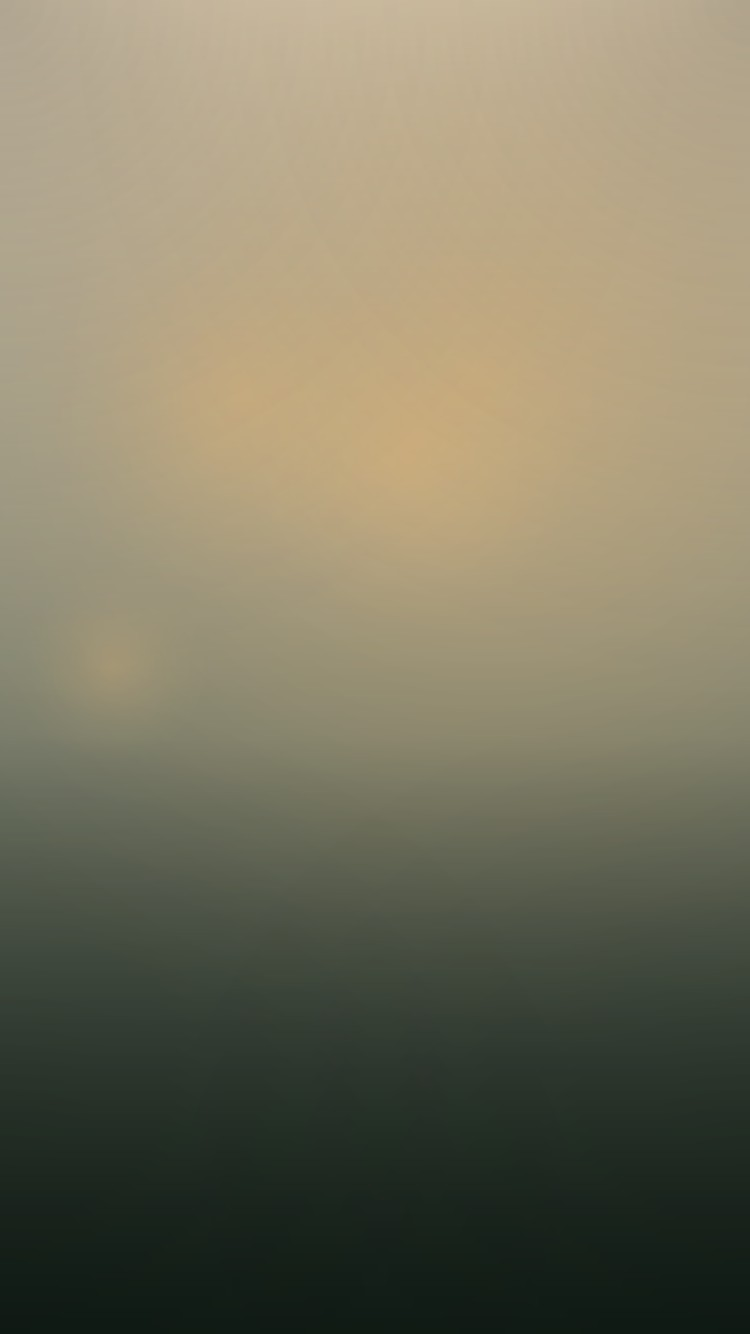
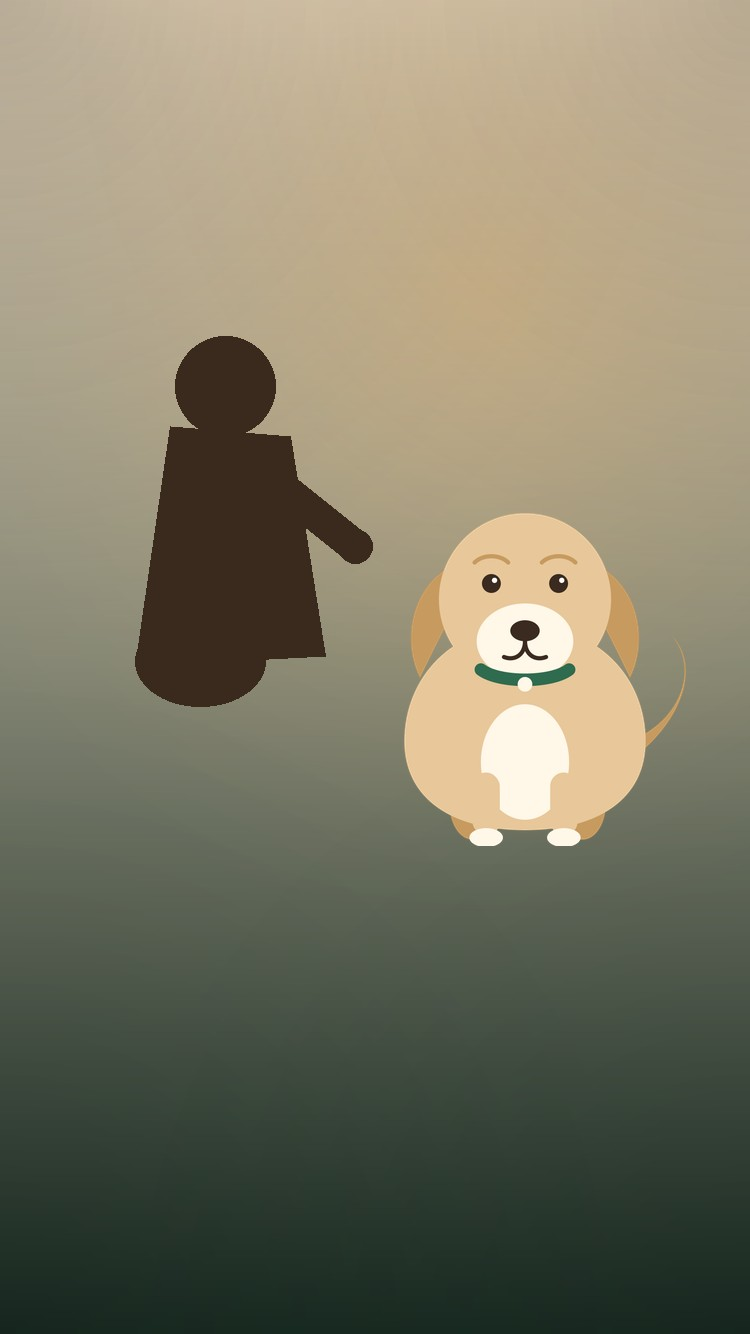
feat(mobile): add KINRO dog imagery

Changed region(s): [[0.5213, 0.3688, 0.8893, 0.6454], [0.1227, 0.2459, 0.4907, 0.5532]]

diff --git a/mobile/src/components/DogPhoto.tsx b/mobile/src/components/DogPhoto.tsx
@@ -8,58 +8,108 @@ import {
   type ViewStyle,
 } from "react-native";
 import { Skeleton } from "@/components/Skeleton";
+import { getDemoPhotoForKey } from "@/lib/demo-photos";
 import { colors } from "@/theme/tokens";
 
-// Bundled fallback cover — used whenever a dog has no uploaded photo, or
-// a real photo URL fails to load. Currently stylized warm placeholder
-// artwork rather than a real photo (see assets/images/README.md for the
-// swap-in path); resolved via require() so Metro bundles it locally and
-// nothing here depends on network access.
-const PLACEHOLDER_PHOTO = require("../../assets/images/dog-cover-placeholder.jpg");
+// Final fallback cover — used only when there's no real photo AND no
+// demoKey to deterministically pick a demo photo from (e.g. a brand-new
+// "Add Dog" preview slot before the dog even has a slug yet). A
+// recognizable illustrated dog, same as the demo-dogs set (see
+// assets/images/README.md) — resolved via require() so Metro bundles it
+// locally and nothing here depends on network access.
+const GENERIC_PLACEHOLDER = require("../../assets/images/dog-cover-placeholder.jpg");
+
+/**
+ * A photo url is only ever worth attempting to load if it's an absolute
+ * http(s) URL — which is exactly what the backend's publicUrlFor() always
+ * produces (see src/lib/storage.ts) when correctly configured. Guards
+ * against a misconfigured R2_PUBLIC_HOSTNAME (unset in Render's
+ * dashboard) producing a malformed url like "https:///dogs/..." — some
+ * platforms never fire an Image's onError for a URI that broken, which
+ * would otherwise leave this component stuck silently rendering nothing
+ * instead of falling back. Checking up front means the fallback doesn't
+ * depend on that callback firing at all — this is deliberate, not just
+ * relying on onError (see Phase 6 of the image-implementation notes).
+ */
+function isLoadableUri(uri: string): boolean {
+  return /^https?:\/\/.+/.test(uri);
+}
 
 /**
  * Single source of truth for "a dog's photo, or a graceful stand-in" —
  * used anywhere a dog's cover photo appears (Discover cards, My Dog
- * cards, Dog Detail hero). Handles the loading/error cases: a pulsing
- * skeleton while a real photo is downloading, and a fallback to the
- * same bundled placeholder image if that download ever fails — not just
- * when the URL is absent to begin with. Both the real photo and the
- * placeholder render through the same <Image resizeMode="cover">
- * treatment, so rounded corners (set by the caller via `style` +
- * `overflow: hidden`) apply consistently either way.
+ * cards, Dog Detail hero, owner profile previews). Photo priority:
+ *
+ *   1. A real uploaded photo (`uri`), if present and safely loadable.
+ *   2. A bundled, recognizable illustrated demo dog, deterministically
+ *      chosen from `demoKey` (pass the dog's `slug` — stable for that
+ *      dog's whole lifetime, present on both OwnedDogProfileItem and the
+ *      public DogProfileItem) — the same dog always shows the same demo
+ *      photo, every time, with no storage needed for that assignment.
+ *   3. A single generic illustrated placeholder, only when neither of
+ *      the above applies at all (no uri AND no demoKey).
+ *
+ * This ordering (and rendering the fallback synchronously whenever
+ * `uri` is absent or fails validation, rather than waiting on a load
+ * attempt) is what makes tiers 2/3 render immediately for guests
+ * browsing demo dogs — no login, no R2, no network round trip, and no
+ * dependence on a remote image ever actually erroring out.
+ *
+ * Handles the loading/error cases throughout: a pulsing skeleton while a
+ * real photo is downloading, and a fallback to tier 2/3 if that download
+ * ever fails or the url is malformed. Every tier renders through the
+ * same <Image resizeMode="cover"> treatment, so rounded corners (set by
+ * the caller via `style` + `overflow: hidden`) apply consistently, and
+ * every tier gives the Image a non-zero size because `style` always
+ * comes from the caller's own fixed-dimension layout (see PublicDogCard,
+ * DogCard, and the Dog Detail heroes for the actual width/height).
  */
 export function DogPhoto({
   uri,
+  demoKey,
   style,
   emptyLabel,
 }: {
   uri: string | null | undefined;
+  /** Stable per-dog key (pass the dog's `slug`) used to deterministically pick a bundled demo photo when there's no real uri. Omit only when no such key exists yet. */
+  demoKey?: string;
   style?: StyleProp<ViewStyle>;
-  /** Small caption chip shown over the placeholder image, e.g. "No photo yet". Omit for a bare placeholder (used in dense card grids). */
+  /** Small caption chip shown over the fallback image, e.g. "No photo yet". Omit for a bare fallback (used in dense card grids, and always omitted for public Discover cards). */
   emptyLabel?: string;
 }) {
+  const canAttemptLoad = !!uri && isLoadableUri(uri);
   const [status, setStatus] = useState<"loading" | "loaded" | "error">(
-    uri ? "loading" : "error",
+    canAttemptLoad ? "loading" : "error",
   );
 
-  const showPlaceholder = !uri || status === "error";
+  const showFallback = !canAttemptLoad || status === "error";
+  const fallbackSource = demoKey
+    ? getDemoPhotoForKey(demoKey)
+    : GENERIC_PLACEHOLDER;
 
   return (
     <View style={style}>
       <Image
-        source={showPlaceholder ? PLACEHOLDER_PHOTO : { uri: uri as string }}
+        source={showFallback ? fallbackSource : { uri: uri as string }}
+        // iOS shows this immediately while the real photo above is still
+        // downloading, so there's never a blank frame during the network
+        // fetch (Android ignores defaultSource; the Skeleton below covers
+        // that case instead). Harmless — and never shown at all — in the
+        // showFallback branch, since source and defaultSource are then
+        // the same image.
+        defaultSource={fallbackSource}
         style={StyleSheet.absoluteFill}
         resizeMode="cover"
         onLoadEnd={() => setStatus("loaded")}
         onError={() => setStatus("error")}
       />
-      {!showPlaceholder && status === "loading" ? (
+      {!showFallback && status === "loading" ? (
         // height is irrelevant here — absoluteFill's inset-0 positioning
         // stretches this to match the Image regardless of Skeleton's own
         // (number-only) height prop.
         <Skeleton height={1} borderRadius={0} style={StyleSheet.absoluteFill} />
       ) : null}
-      {showPlaceholder && emptyLabel ? (
+      {showFallback && emptyLabel ? (
         <View style={styles.labelChip}>
           <Text style={styles.labelChipText}>{emptyLabel}</Text>
         </View>

diff --git a/mobile/src/lib/demo-photos.ts b/mobile/src/lib/demo-photos.ts
@@ -1,0 +1,45 @@
+// Bundled locally (no remote URLs) — see assets/images/README.md.
+// Six visually-distinct illustrated dogs (different coat colors and ear
+// styles) — genuinely recognizable as dogs, not abstract gradients.
+// Still illustration rather than real photography (no image-generation
+// tool or licensed photo source is available in this project's
+// environment); see the README for the real-photo swap-in path. Used
+// only when a dog has no real uploaded cover photo.
+//
+// Deliberately untyped (matches every other local require() in this
+// codebase, e.g. DogPhoto.tsx's own GENERIC_PLACEHOLDER): RN's asset
+// require() returns an opaque module id, and react-native's
+// ImageSourcePropType is broader than what every Image prop actually
+// accepts (e.g. it allows arrays, which `defaultSource` rejects) —
+// annotating it precisely here would fight the library's own types for
+// no real benefit.
+const DEMO_PHOTOS = [
+  require("../../assets/images/demo-dogs/demo-dog-1.jpg"),
+  require("../../assets/images/demo-dogs/demo-dog-2.jpg"),
+  require("../../assets/images/demo-dogs/demo-dog-3.jpg"),
+  require("../../assets/images/demo-dogs/demo-dog-4.jpg"),
+  require("../../assets/images/demo-dogs/demo-dog-5.jpg"),
+  require("../../assets/images/demo-dogs/demo-dog-6.jpg"),
+];
+
+/**
+ * Deterministically maps a stable per-dog key (use the dog's `slug` —
+ * present on both OwnedDogProfileItem and the public DogProfileItem, and
+ * stable for that dog's lifetime, unlike `id` sort order) to one of the
+ * bundled demo photos. Pure function of the string: the same key always
+ * returns the same photo, every render, every session — no randomness,
+ * no state. This is what makes "the same demo dog always shows the same
+ * photo" true without needing to store a photo assignment anywhere.
+ */
+export function getDemoPhotoForKey(key: string) {
+  let hash = 0;
+  for (let i = 0; i < key.length; i++) {
+    // Classic string hash (djb2-ish); >>> 0 keeps it an unsigned 32-bit
+    // int so the modulo below is always non-negative.
+    hash = (Math.imul(hash, 31) + key.charCodeAt(i)) >>> 0;
+  }
+  // The `?? DEMO_PHOTOS[0]` is unreachable in practice (hash % length is
+  // always a valid index into a fixed 6-item array) — it's here only to
+  // satisfy noUncheckedIndexedAccess, which can't prove that statically.
+  return DEMO_PHOTOS[hash % DEMO_PHOTOS.length] ?? DEMO_PHOTOS[0];
+}

diff --git a/mobile/src/components/HeroImage.tsx b/mobile/src/components/HeroImage.tsx
@@ -7,10 +7,10 @@ interface HeroImageProps {
   /**
    * The full-bleed background image (a static require() — RN resolves
    * these at bundle time, so each screen supplies its own dedicated
-   * asset from assets/images/). Currently stylized warm placeholder
-   * artwork rather than real photography — see assets/images/README.md
-   * for the swap-in path once real photos exist; no code change needed
-   * here when that happens, only the asset file.
+   * asset from assets/images/). Currently an illustrated dog scene
+   * rather than real photography — see assets/images/README.md for the
+   * swap-in path once real photos exist; no code change needed here
+   * when that happens, only the asset file.
    */
   source: ImageSourcePropType;
   /** Darkens the lower portion for text legibility over the photo (Splash/Welcome copy sits here). */

diff --git a/mobile/app/index.tsx b/mobile/app/index.tsx
@@ -10,8 +10,8 @@ import { colors, spacing, typography } from "@/theme/tokens";
 
 /**
  * Full-bleed splash matching the brand reference (large dog-photography
- * moment first). Currently stylized warm placeholder artwork rather than
- * a real photo — see assets/images/README.md for the swap-in path.
+ * moment first). Currently an illustrated dog scene rather than a real
+ * photo — see assets/images/README.md for the swap-in path.
  */
 function LoadingSplash() {
   return (

diff --git a/mobile/app/(app)/(tabs)/discover/[id].tsx b/mobile/app/(app)/(tabs)/discover/[id].tsx
@@ -78,7 +78,11 @@ export default function PublicDogDetailScreen() {
   return (
     <Screen noPadding edges={["bottom"]}>
       <ScrollView contentContainerStyle={styles.scroll}>
-        <DogPhoto uri={dog.coverPhotoUrl} style={styles.hero} />
+        <DogPhoto
+          uri={dog.coverPhotoUrl}
+          demoKey={dog.slug}
+          style={styles.hero}
+        />
 
         <View style={styles.body}>
           <Text style={typography.title}>{dog.name}</Text>

diff --git a/mobile/src/components/PublicDogCard.tsx b/mobile/src/components/PublicDogCard.tsx
@@ -29,7 +29,11 @@ export function PublicDogCard({
       ]}
       accessibilityRole="button"
     >
-      <DogPhoto uri={dog.coverPhotoUrl} style={styles.photo} />
+      <DogPhoto
+        uri={dog.coverPhotoUrl}
+        demoKey={dog.slug}
+        style={styles.photo}
+      />
       <View style={styles.info}>
         <Text style={typography.sectionTitle}>{dog.name}</Text>
         <Text style={[typography.bodyMuted, styles.meta]}>

diff --git a/mobile/app/(app)/(tabs)/my-dog/index.tsx b/mobile/app/(app)/(tabs)/my-dog/index.tsx
@@ -166,6 +166,7 @@ export default function HomeScreen() {
                       dog.photos.find((p) => p.position === 0)?.url ??
                       dog.photos[0]?.url
                     }
+                    demoKey={dog.slug}
                     style={styles.miniPhoto}
                   />
                   {index === 0 && (dogs?.length ?? 0) > 1 ? (

diff --git a/mobile/app/(app)/(tabs)/my-dog/[id]/index.tsx b/mobile/app/(app)/(tabs)/my-dog/[id]/index.tsx
@@ -75,6 +75,7 @@ export default function DogDetailScreen() {
         <View style={styles.heroWrap}>
           <DogPhoto
             uri={cover?.url}
+            demoKey={dog.slug}
             style={styles.hero}
             emptyLabel="No photo yet"
           />

diff --git a/mobile/src/components/DogCard.tsx b/mobile/src/components/DogCard.tsx
@@ -37,6 +37,7 @@ export function DogCard({
     >
       <DogPhoto
         uri={cover?.url}
+        demoKey={dog.slug}
         style={styles.photo}
         emptyLabel="No photo yet"
       />

diff --git a/mobile/assets/images/README.md b/mobile/assets/images/README.md
@@ -1,28 +1,33 @@
 # Image assets
 
-Every file in this folder is currently **stylized placeholder artwork**
-(a warm bokeh/gradient treatment using the app's own brand colors from
-`src/theme/tokens.ts`), not real photography. They exist so every screen
-has a finished, on-brand visual instead of a flat color or an icon glyph
-while real photos aren't available yet.
+Every file in this folder is currently **stylized flat-illustration
+artwork** — genuinely recognizable as a dog (simple sitting-dog
+character, brand-colored collar), not a photograph and not an abstract
+gradient. There is no image-generation tool or licensed photo source
+available in this project's environment, so hand-drawn illustration is
+the honest option that's actually achievable here — a real photo still
+needs to come from you (owned, commissioned, or properly licensed).
 
-| File | Used by | Notes |
+| File / folder | Used by | Notes |
 |---|---|---|
-| `splash-hero.jpg` | `app/index.tsx` (`LoadingSplash`, via `HeroImage`) | Full-bleed portrait, dark-to-warm vertical gradient so light text reads at the bottom |
-| `welcome-hero.jpg` | `app/welcome.tsx` (via `HeroImage`) | Same treatment, slightly warmer/busier to feel more inviting |
-| `dog-cover-placeholder.jpg` | `src/components/DogPhoto.tsx` | Landscape; shown whenever a dog has no uploaded cover photo, or a real photo URL fails to load |
+| `splash-hero.jpg` | `app/index.tsx` (`LoadingSplash`, via `HeroImage`) | Full-bleed portrait; a single dog illustration on a dark-to-warm vertical gradient so light text reads at the bottom |
+| `welcome-hero.jpg` | `app/welcome.tsx` (via `HeroImage`) | Same treatment, dog + a simple abstract owner silhouette reaching toward it |
+| `dog-cover-placeholder.jpg` | `src/components/DogPhoto.tsx` (final fallback tier) | Landscape; shown only when a dog has no `demoKey` at all (see `src/lib/demo-photos.ts`) |
+| `demo-dogs/demo-dog-1.jpg` … `demo-dog-6.jpg` | `src/lib/demo-photos.ts` | Six visually-distinct illustrated dogs (different coat colors/ear styles), deterministically assigned per dog by `getDemoPhotoForKey()` — same dog always gets the same one |
 
 ## Swapping in real photography
 
 Each file is loaded via a static `require()` at a fixed path — replace
 the file in place (same filename, same folder) and no code changes are
-needed anywhere. Keep the same aspect ratio as the file you're replacing
-so existing crops/`resizeMode="cover"` layouts don't shift:
+needed anywhere. Keep the same aspect ratio so existing crops/
+`resizeMode="cover"` layouts don't shift:
 
-- `splash-hero.jpg` / `welcome-hero.jpg`: portrait, ~750×1334 (any
-  higher-resolution portrait image works — `resizeMode="cover"` crops
-  to fill)
-- `dog-cover-placeholder.jpg`: landscape, ~800×600
+- `splash-hero.jpg` / `welcome-hero.jpg`: portrait, ~750×1334
+- `dog-cover-placeholder.jpg` / `demo-dogs/*.jpg`: landscape, ~800×600
+
+You can replace anywhere from one to all six `demo-dogs/*.jpg` files
+independently — `getDemoPhotoForKey()` doesn't care what's actually in
+each file, only that all six exist.
 
 Only use images you have the rights to (owned, commissioned, or under a
 license that permits commercial app use) — do not substitute images
